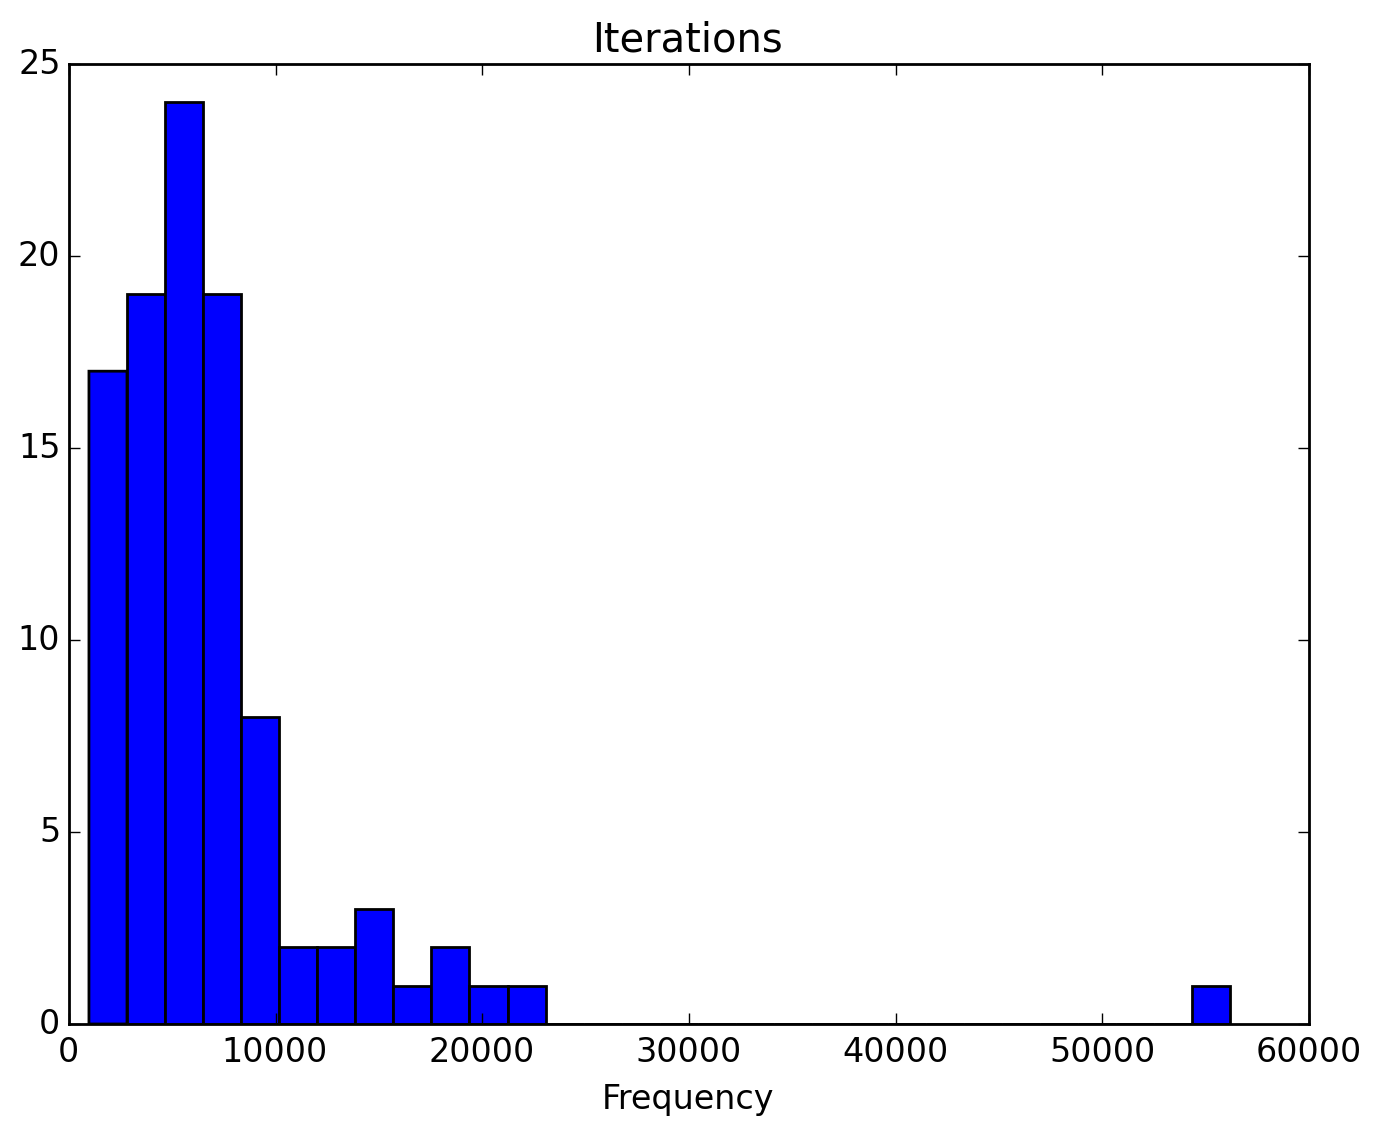
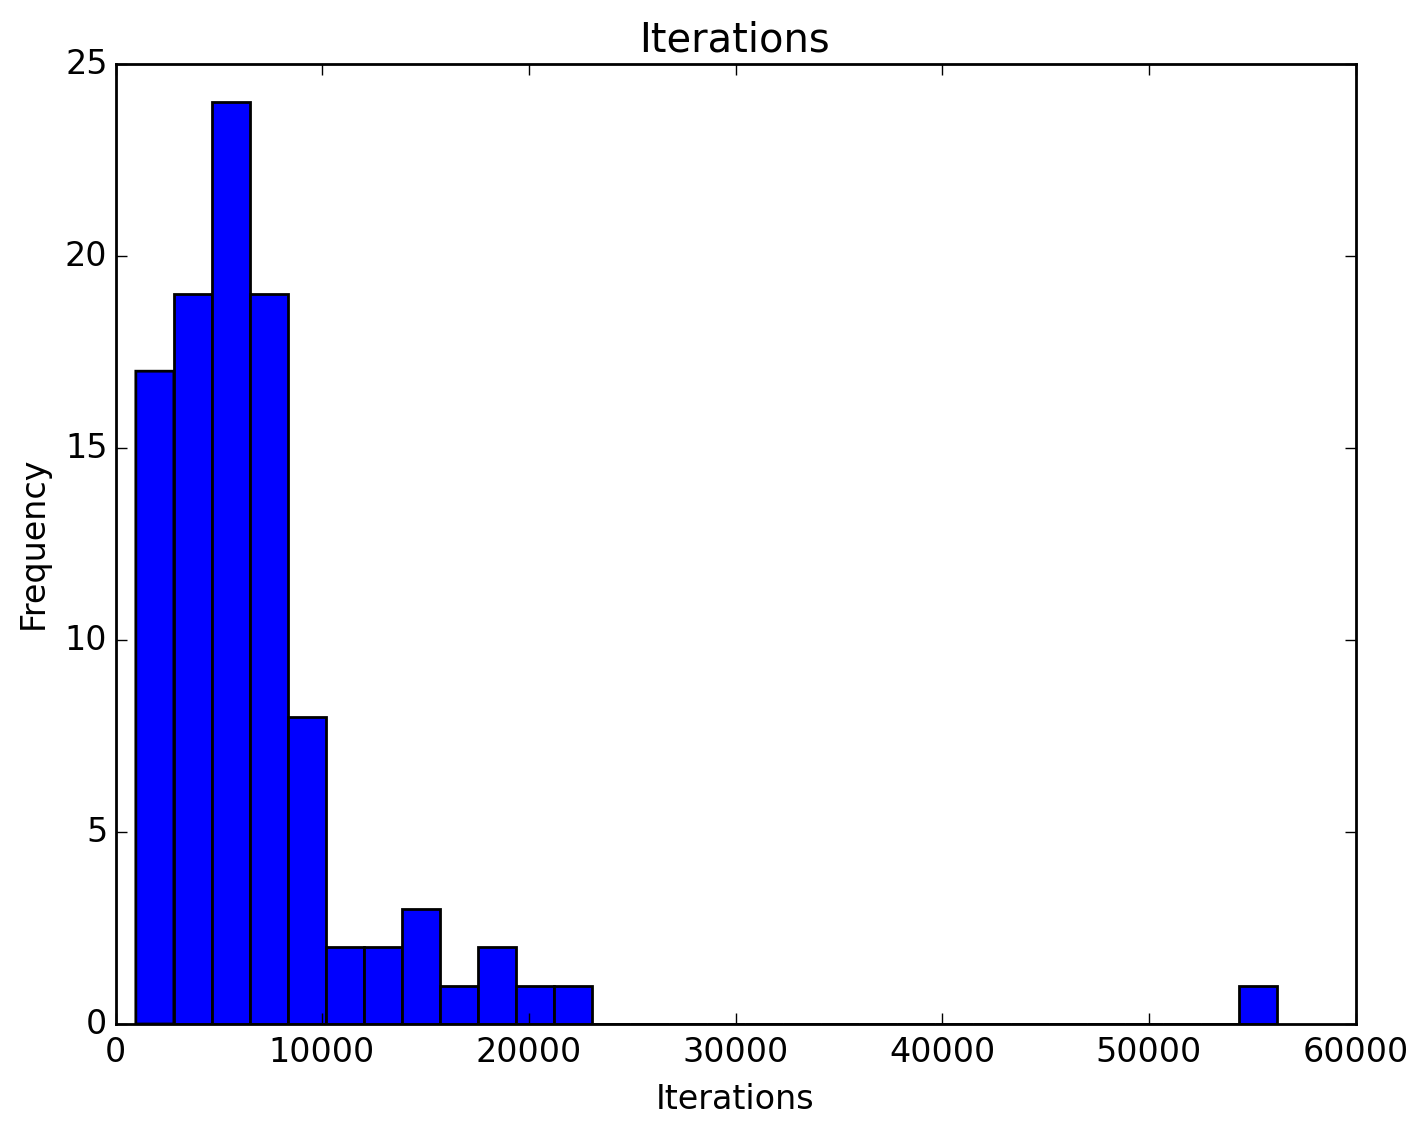
Added the project proposal document.

diff --git a/Clark-01/Histogram.py b/Clark-01/Histogram.py
@@ -13,7 +13,8 @@ data = [2015, 21934, 13391, 1687, 7404, 19745, 7697, 5561, 972, 7659, 5646,
 plot.hist(data, 30)
 plot.title("Iterations")
 plot.xlabel("Iterations")
-plot.xlabel("Frequency")
+plot.ylabel("Frequency")
+plot.savefig('Histogram', dpi=200, bbox_inches='tight')
 plot.show()
 
-plot.savefig('Histogram', dpi=200, bbox_inches='tight')
+
